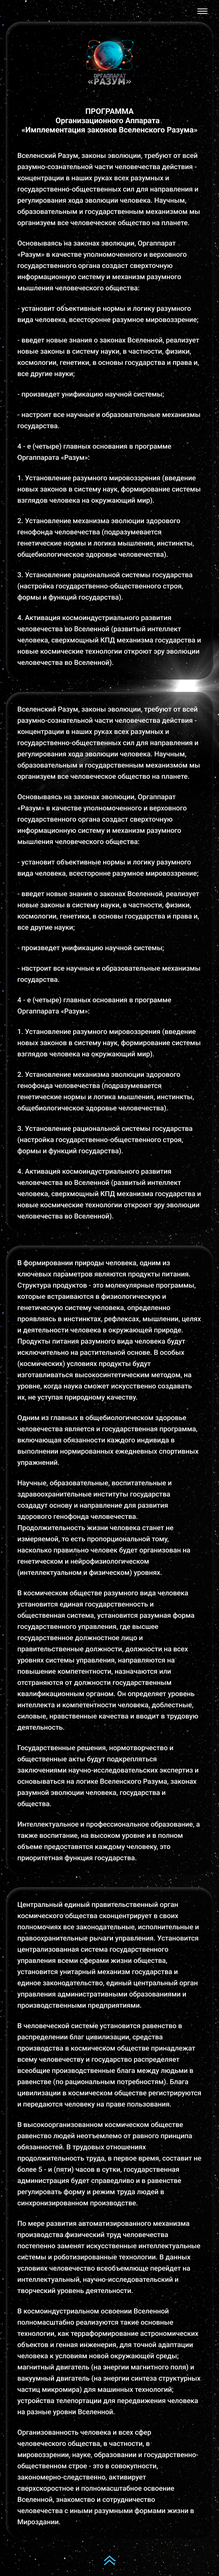
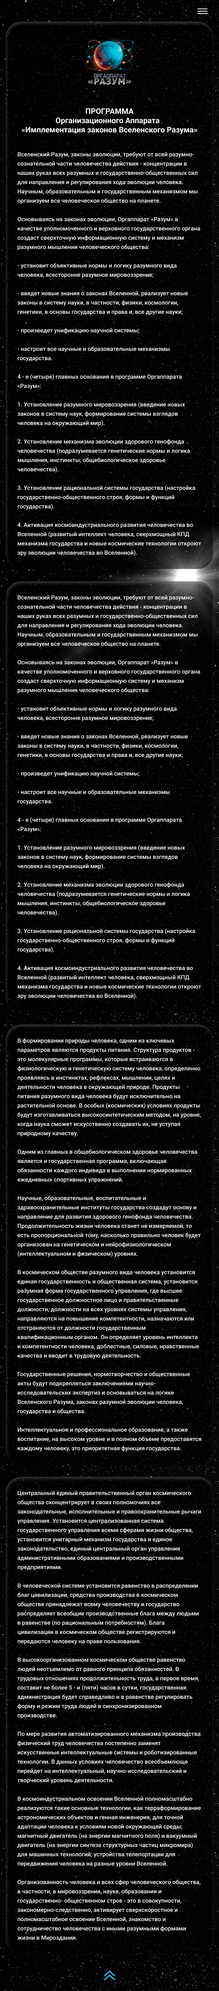
fix: PerfectPixel mobile (360px) Changes to be committed: 	modified:   assets/perfectPixel-mobile.png 	modified:   assets/perfectPixel-mobile_landscape.png 	modified:   css/media.css 	modified:   index.html

Changed region(s): [[0.0599, 0.0, 1.0, 1.0], [0.7782, 0.0, 0.8081, 0.0312], [0.0299, 0.0, 0.0599, 0.0312]]

diff --git a/css/media.css b/css/media.css
@@ -842,8 +842,16 @@
     border-radius: 30px;
   }
 
+  .longread__content_handscroll .page:last-of-type {
+    margin-bottom: 2rem;
+  }
+
   .longread__logo img {
-    max-height: 128px;
+    max-height: 150px;
+  }
+
+  .longread__logo_handscroll {
+    margin-bottom: 2rem;
   }
 
   .longread__title {
@@ -851,7 +859,8 @@
     font-size: calc(1.42857142857143vw + 12.8571428571429px);
   }
 
-  .longread__content p {
+  .longread__content p,
+  .longread__content li {
     font-size: 0.9375rem;
   }
 
@@ -859,10 +868,24 @@
     font-size: 1.125rem;
   }
 
+  .longread__title_handscroll {
+    margin-bottom: 2rem;
+  }
+
+  .longread__section_handscroll .page:nth-of-type(1)::before {
+    transform: translate(18%, 76%);
+  }
+
   .arrow-btn {
     display: block;
     width: 48px;
     height: 48px;
+  }
+}
+
+@media screen and (max-width: 640px) and (orientation: landscape) {
+  .longread__container {
+    padding-top: 54px;
   }
 }
 

diff --git a/index.html b/index.html
@@ -86,7 +86,7 @@
   <body>
     <div class="global-container">
       <header class="header">
-        <div class="container header__container menu accent-menu">
+        <div class="container header__container menu">
           <ul class="menu__top" id="menu" aria-labelledby="menu-btn">
             <li
               id="menu-item-28"
